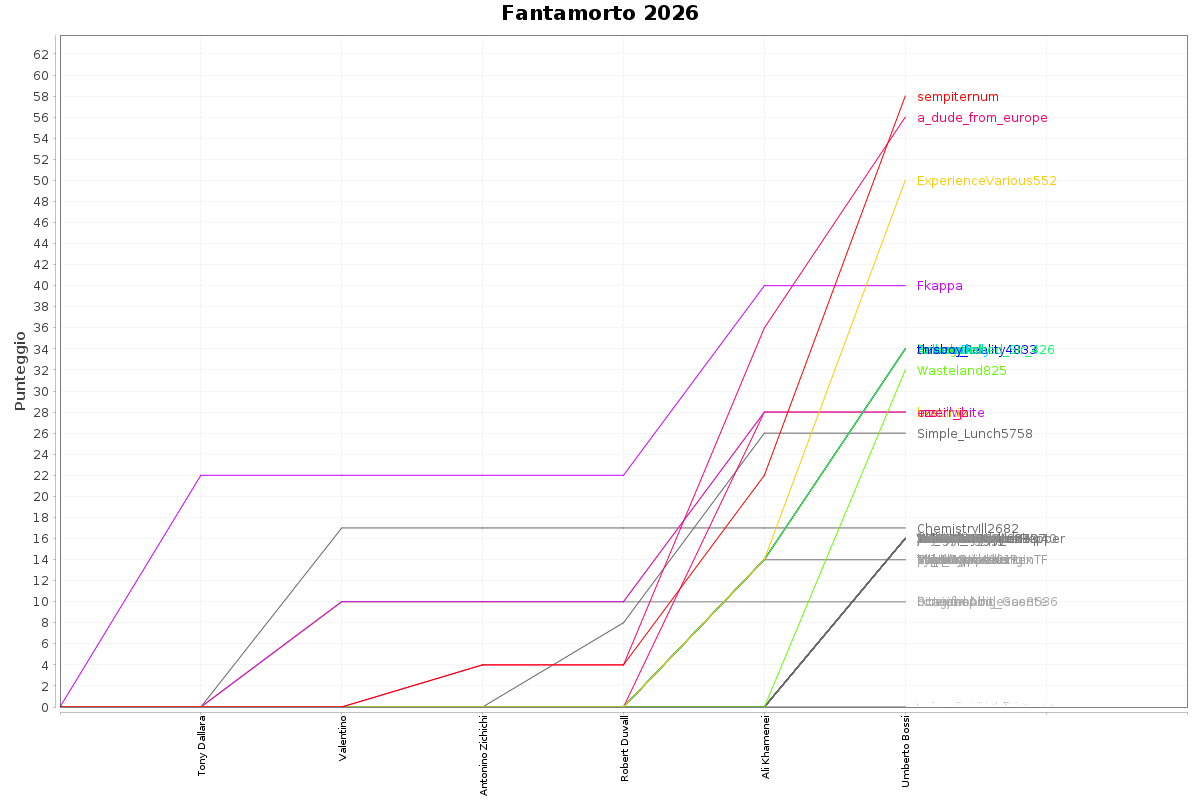
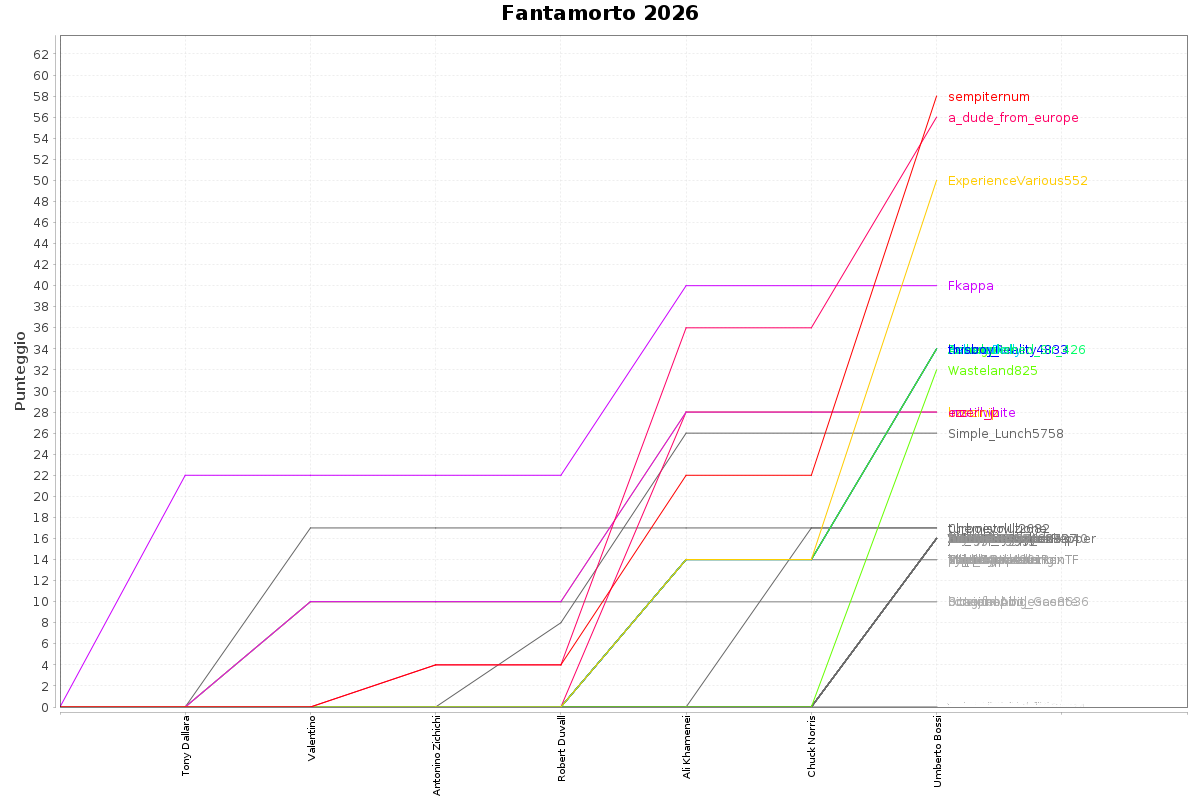
Automatic update

diff --git a/tabellone.html b/tabellone.html
@@ -891,6 +891,51 @@
 </tr>
 
 <tr>
+	<td>turboevoluzione</td>
+	<td>Club Doppia Data</td>
+	<td>
+	
+	<span class="tooltip"><span class="tooltiptext">
+		
+		&nbsp;+3 - SNIPER (Chuck Norris)<br/>
+		
+		&nbsp;+14 - MORTO (Chuck Norris, età: 86)<br/>
+		
+	</span>17</span>
+	</td>
+	
+	
+	
+		<td><a href="https://www.wikidata.org/wiki/Q1747993">Tylor Chase</a> <span class="gray">36</span></td>	
+	
+		<td><a href="https://www.wikidata.org/wiki/Q2673">Chuck Norris</a> <span class="gray">86</span>†</td>	
+	
+		<td><a href="https://www.wikidata.org/wiki/Q183058">Alan Dershowitz</a> <span class="gray">87</span></td>	
+	
+		<td><a href="https://www.wikidata.org/wiki/Q55400">Hayao Miyazaki</a> <span class="gray">85</span></td>	
+	
+		<td><a href="https://www.wikidata.org/wiki/Q78545">Helmut Marko</a> <span class="gray">82</span></td>	
+	
+		<td><a href="https://www.wikidata.org/wiki/Q212648">Rudolph Giuliani</a> <span class="gray">81</span></td>	
+	
+		<td><a href="https://www.wikidata.org/wiki/Q483382">Steve Wozniak</a> <span class="gray">75</span></td>	
+	
+		<td><a href="https://www.wikidata.org/wiki/Q58444">Liam Neeson</a> <span class="gray">73</span></td>	
+	
+		<td><a href="https://www.wikidata.org/wiki/Q940243">Pier Silvio Berlusconi</a> <span class="gray">56</span></td>	
+	
+		<td><a href="https://www.wikidata.org/wiki/Q212002">Amanda Bynes</a> <span class="gray">39</span></td>	
+	
+		<td><a href="https://www.wikidata.org/wiki/Q116508021">Erika Kirk</a> <span class="gray">37</span></td>	
+	
+		<td><a href="https://www.wikidata.org/wiki/Q1395624">Cara Delevingne</a> <span class="gray">33</span></td>	
+	
+	
+		
+	<td>64.17</td>
+</tr>
+
+<tr>
 	<td>--StearlingArcher--</td>
 	<td>secchione dell&#x27;umido</td>
 	<td>
@@ -6009,42 +6054,6 @@
 </tr>
 
 <tr>
-	<td>turboevoluzione</td>
-	<td>Club Doppia Data</td>
-	<td>0</td>
-	
-	
-	
-		<td><a href="https://www.wikidata.org/wiki/Q1747993">Tylor Chase</a> <span class="gray">36</span></td>	
-	
-		<td><a href="https://www.wikidata.org/wiki/Q183058">Alan Dershowitz</a> <span class="gray">87</span></td>	
-	
-		<td><a href="https://www.wikidata.org/wiki/Q2673">Chuck Norris</a> <span class="gray">86</span></td>	
-	
-		<td><a href="https://www.wikidata.org/wiki/Q55400">Hayao Miyazaki</a> <span class="gray">85</span></td>	
-	
-		<td><a href="https://www.wikidata.org/wiki/Q78545">Helmut Marko</a> <span class="gray">82</span></td>	
-	
-		<td><a href="https://www.wikidata.org/wiki/Q212648">Rudolph Giuliani</a> <span class="gray">81</span></td>	
-	
-		<td><a href="https://www.wikidata.org/wiki/Q483382">Steve Wozniak</a> <span class="gray">75</span></td>	
-	
-		<td><a href="https://www.wikidata.org/wiki/Q58444">Liam Neeson</a> <span class="gray">73</span></td>	
-	
-		<td><a href="https://www.wikidata.org/wiki/Q940243">Pier Silvio Berlusconi</a> <span class="gray">56</span></td>	
-	
-		<td><a href="https://www.wikidata.org/wiki/Q212002">Amanda Bynes</a> <span class="gray">39</span></td>	
-	
-		<td><a href="https://www.wikidata.org/wiki/Q116508021">Erika Kirk</a> <span class="gray">37</span></td>	
-	
-		<td><a href="https://www.wikidata.org/wiki/Q1395624">Cara Delevingne</a> <span class="gray">33</span></td>	
-	
-	
-		
-	<td>64.17</td>
-</tr>
-
-<tr>
 	<td>uomorospo</td>
 	<td>Dead man walking</td>
 	<td>0</td>
@@ -6158,7 +6167,7 @@
 <h1>Statistiche</h1>
 <p>Utenti iscritti: <b>163</b></p>
 <p>Atleti in gara: <b>635</b></p>
-<p>Età media atleti: <b>67.68</b></p>
+<p>Età media atleti: <b>67.65</b></p>
 <p>Nazioni rappresentate: <b>74</b></p>
 <p>Occupazioni distinte: <b>142</b></p>
 <p>Generi distinti: <b>5</b></p>
@@ -6265,6 +6274,8 @@
 
 <li>Ali Khamenei - 2026-02-28 (86)</li>
 
+<li>Chuck Norris - 2026-03-19 (86)</li>
+
 <li>Umberto Bossi - 2026-03-19 (84)</li>
 
 </ul>
@@ -6316,7 +6327,7 @@
 
 
 <br/>
-<small>Bot uptime: 81d 7h 24m 55s</small><br/>
-<small>Aggiornato: 2026-03-20 00:46:18</small>
+<small>Bot uptime: 81d 22h 56m 33s</small><br/>
+<small>Aggiornato: 2026-03-20 16:17:57</small>
 </body>
 </html>

diff --git a/tabellone2026.html b/tabellone2026.html
@@ -891,6 +891,51 @@
 </tr>
 
 <tr>
+	<td>turboevoluzione</td>
+	<td>Club Doppia Data</td>
+	<td>
+	
+	<span class="tooltip"><span class="tooltiptext">
+		
+		&nbsp;+3 - SNIPER (Chuck Norris)<br/>
+		
+		&nbsp;+14 - MORTO (Chuck Norris, età: 86)<br/>
+		
+	</span>17</span>
+	</td>
+	
+	
+	
+		<td><a href="https://www.wikidata.org/wiki/Q1747993">Tylor Chase</a> <span class="gray">36</span></td>	
+	
+		<td><a href="https://www.wikidata.org/wiki/Q2673">Chuck Norris</a> <span class="gray">86</span>†</td>	
+	
+		<td><a href="https://www.wikidata.org/wiki/Q183058">Alan Dershowitz</a> <span class="gray">87</span></td>	
+	
+		<td><a href="https://www.wikidata.org/wiki/Q55400">Hayao Miyazaki</a> <span class="gray">85</span></td>	
+	
+		<td><a href="https://www.wikidata.org/wiki/Q78545">Helmut Marko</a> <span class="gray">82</span></td>	
+	
+		<td><a href="https://www.wikidata.org/wiki/Q212648">Rudolph Giuliani</a> <span class="gray">81</span></td>	
+	
+		<td><a href="https://www.wikidata.org/wiki/Q483382">Steve Wozniak</a> <span class="gray">75</span></td>	
+	
+		<td><a href="https://www.wikidata.org/wiki/Q58444">Liam Neeson</a> <span class="gray">73</span></td>	
+	
+		<td><a href="https://www.wikidata.org/wiki/Q940243">Pier Silvio Berlusconi</a> <span class="gray">56</span></td>	
+	
+		<td><a href="https://www.wikidata.org/wiki/Q212002">Amanda Bynes</a> <span class="gray">39</span></td>	
+	
+		<td><a href="https://www.wikidata.org/wiki/Q116508021">Erika Kirk</a> <span class="gray">37</span></td>	
+	
+		<td><a href="https://www.wikidata.org/wiki/Q1395624">Cara Delevingne</a> <span class="gray">33</span></td>	
+	
+	
+		
+	<td>64.17</td>
+</tr>
+
+<tr>
 	<td>--StearlingArcher--</td>
 	<td>secchione dell&#x27;umido</td>
 	<td>
@@ -6009,42 +6054,6 @@
 </tr>
 
 <tr>
-	<td>turboevoluzione</td>
-	<td>Club Doppia Data</td>
-	<td>0</td>
-	
-	
-	
-		<td><a href="https://www.wikidata.org/wiki/Q1747993">Tylor Chase</a> <span class="gray">36</span></td>	
-	
-		<td><a href="https://www.wikidata.org/wiki/Q183058">Alan Dershowitz</a> <span class="gray">87</span></td>	
-	
-		<td><a href="https://www.wikidata.org/wiki/Q2673">Chuck Norris</a> <span class="gray">86</span></td>	
-	
-		<td><a href="https://www.wikidata.org/wiki/Q55400">Hayao Miyazaki</a> <span class="gray">85</span></td>	
-	
-		<td><a href="https://www.wikidata.org/wiki/Q78545">Helmut Marko</a> <span class="gray">82</span></td>	
-	
-		<td><a href="https://www.wikidata.org/wiki/Q212648">Rudolph Giuliani</a> <span class="gray">81</span></td>	
-	
-		<td><a href="https://www.wikidata.org/wiki/Q483382">Steve Wozniak</a> <span class="gray">75</span></td>	
-	
-		<td><a href="https://www.wikidata.org/wiki/Q58444">Liam Neeson</a> <span class="gray">73</span></td>	
-	
-		<td><a href="https://www.wikidata.org/wiki/Q940243">Pier Silvio Berlusconi</a> <span class="gray">56</span></td>	
-	
-		<td><a href="https://www.wikidata.org/wiki/Q212002">Amanda Bynes</a> <span class="gray">39</span></td>	
-	
-		<td><a href="https://www.wikidata.org/wiki/Q116508021">Erika Kirk</a> <span class="gray">37</span></td>	
-	
-		<td><a href="https://www.wikidata.org/wiki/Q1395624">Cara Delevingne</a> <span class="gray">33</span></td>	
-	
-	
-		
-	<td>64.17</td>
-</tr>
-
-<tr>
 	<td>uomorospo</td>
 	<td>Dead man walking</td>
 	<td>0</td>
@@ -6158,7 +6167,7 @@
 <h1>Statistiche</h1>
 <p>Utenti iscritti: <b>163</b></p>
 <p>Atleti in gara: <b>635</b></p>
-<p>Età media atleti: <b>67.68</b></p>
+<p>Età media atleti: <b>67.65</b></p>
 <p>Nazioni rappresentate: <b>74</b></p>
 <p>Occupazioni distinte: <b>142</b></p>
 <p>Generi distinti: <b>5</b></p>
@@ -6265,6 +6274,8 @@
 
 <li>Ali Khamenei - 2026-02-28 (86)</li>
 
+<li>Chuck Norris - 2026-03-19 (86)</li>
+
 <li>Umberto Bossi - 2026-03-19 (84)</li>
 
 </ul>
@@ -6316,7 +6327,7 @@
 
 
 <br/>
-<small>Bot uptime: 81d 7h 24m 55s</small><br/>
-<small>Aggiornato: 2026-03-20 00:46:18</small>
+<small>Bot uptime: 81d 22h 56m 33s</small><br/>
+<small>Aggiornato: 2026-03-20 16:17:57</small>
 </body>
 </html>
